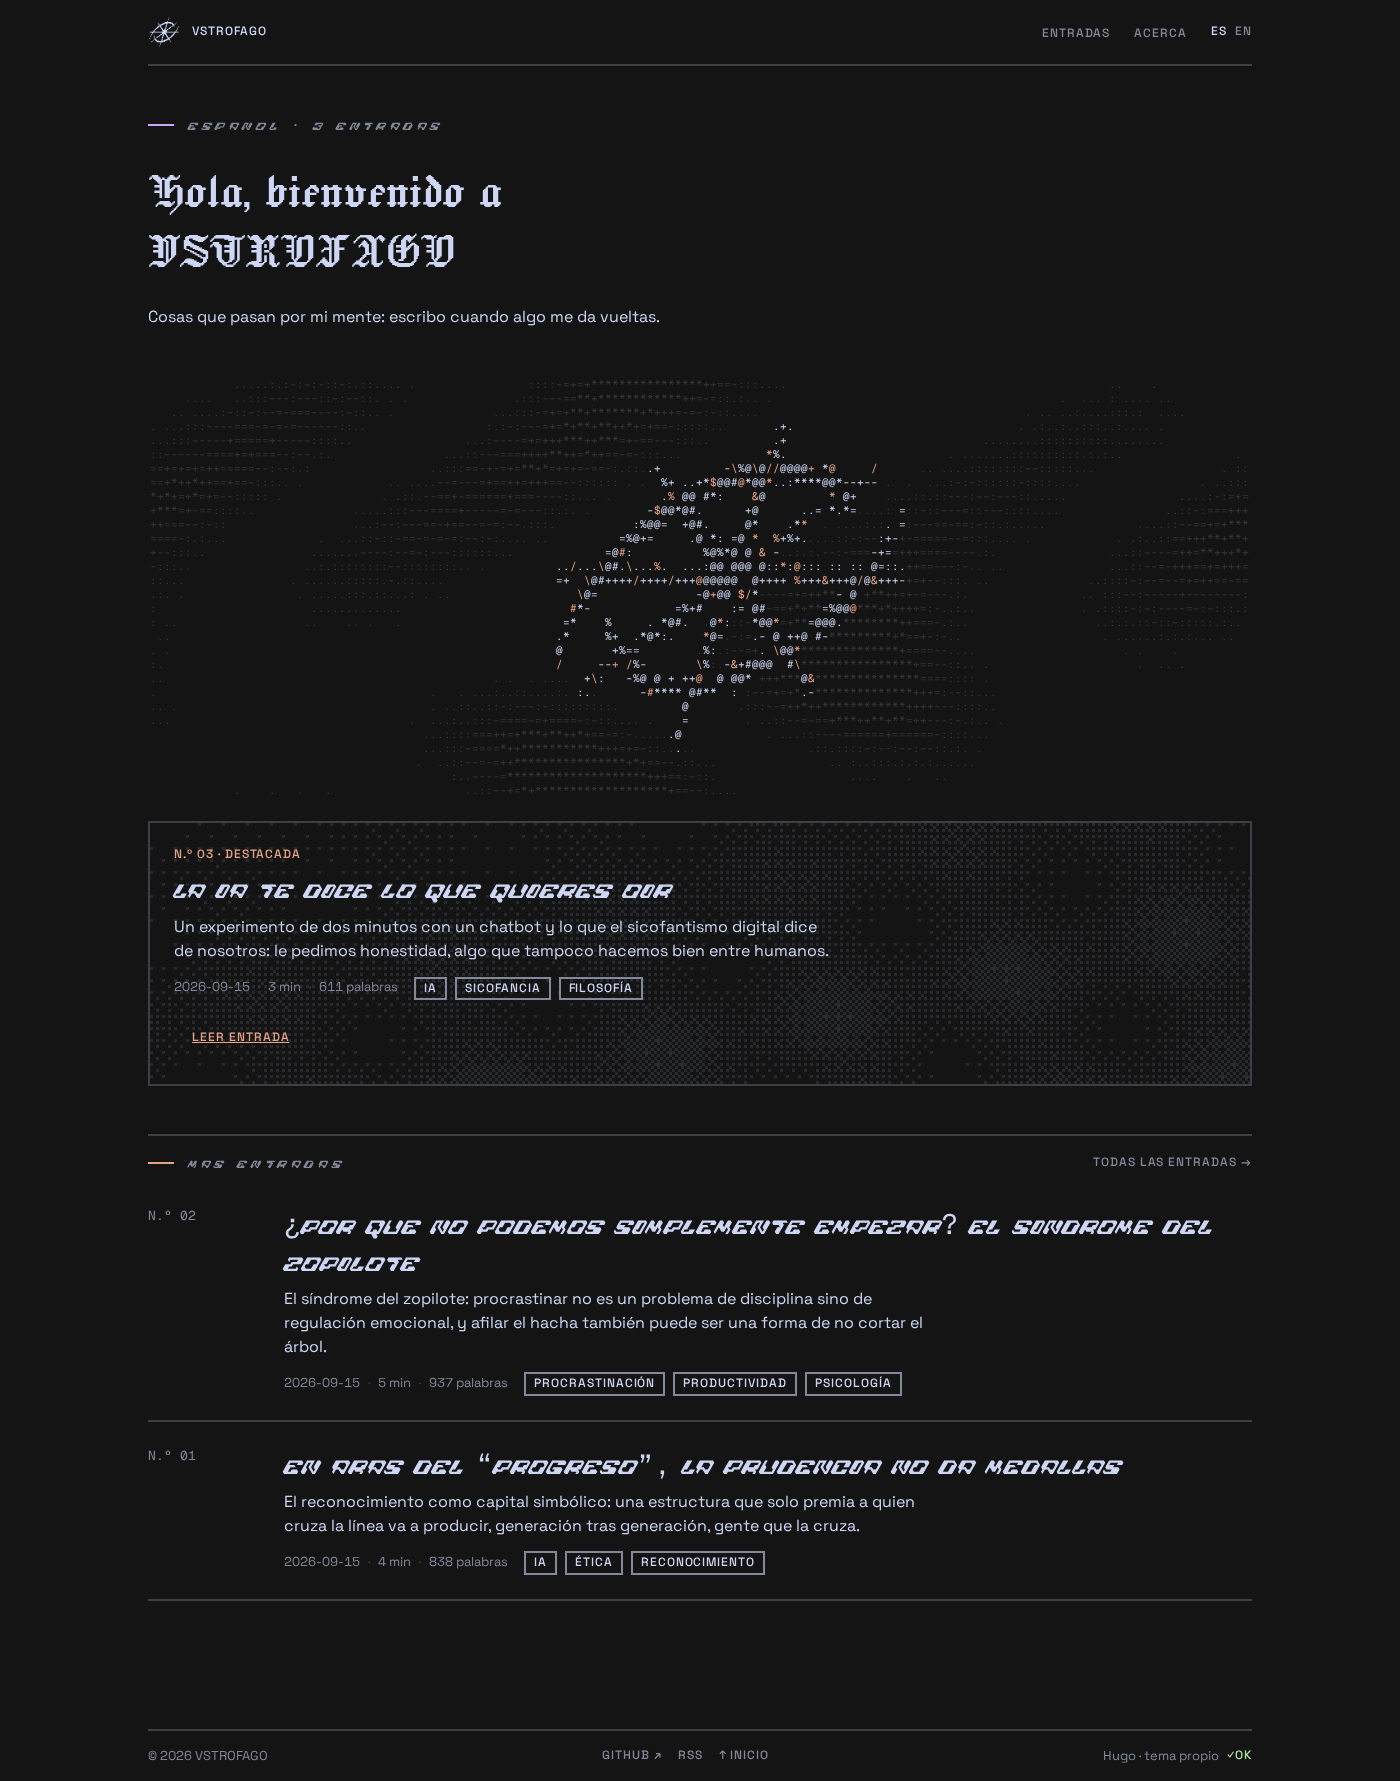
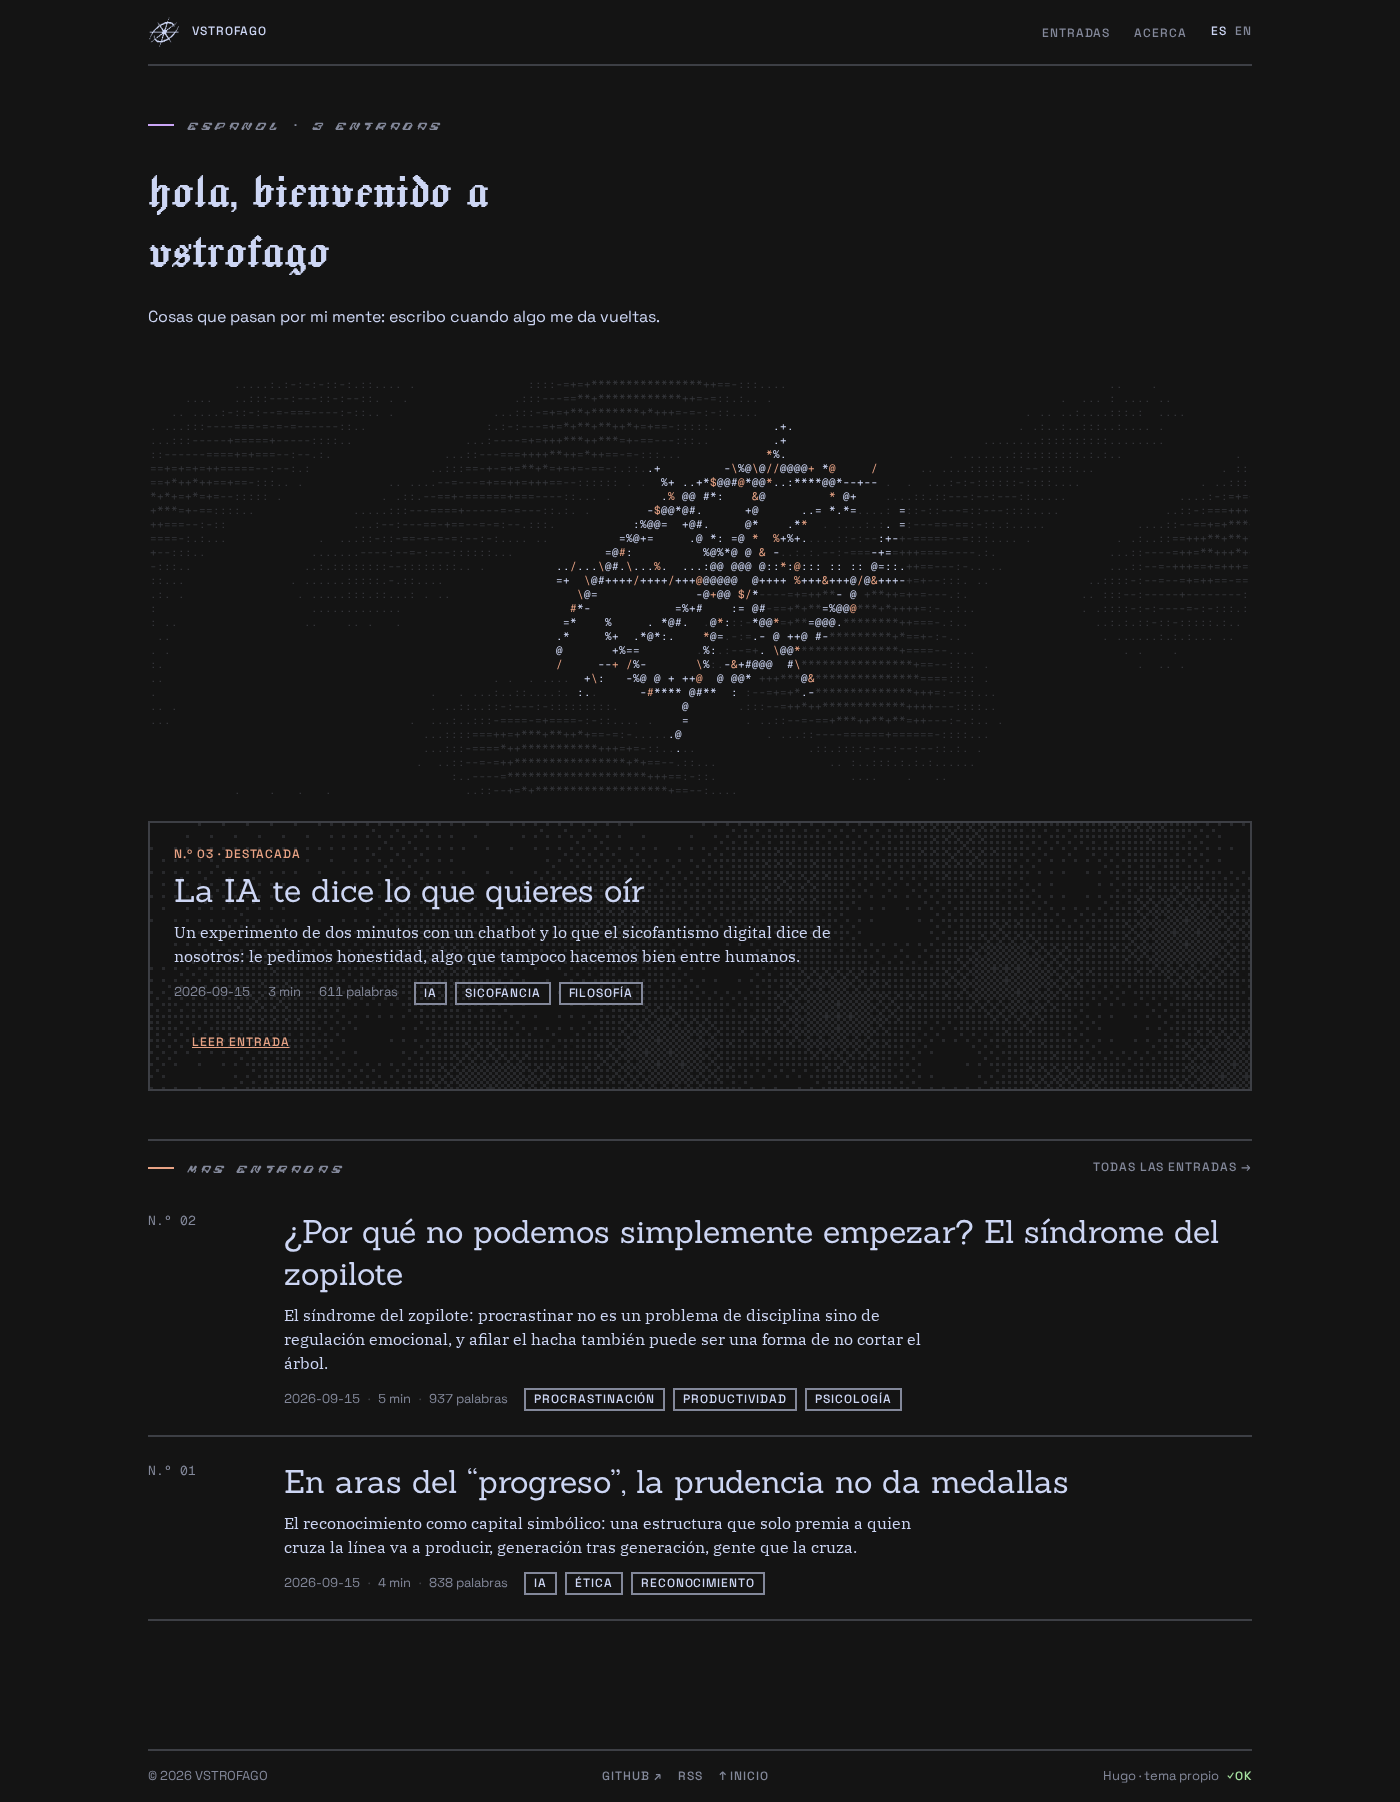
fix(theme): tipografía del blog — Sanchez + IBM Plex Serif; Jacquard solo en heroes
Corrección sobre el render revisado: el blog se compone con su par
(Sanchez para títulos y encabezados, IBM Plex Serif para todo su texto) y
Jacquard24 queda SOLO para los heroes —H1 de portada, listas, búsqueda y
404— siempre en minúsculas.

Concretamente: título de entrada y cabeceras h2-h4 en Sanchez (variantes
`bl-article-head__title--slab` y `bl-note-title`/`bl-card__title--slab` del
DS), deck, resúmenes y cuerpo en IBM Plex Serif, títulos del índice, la
destacada y prev/next en Sanchez. Es el par de la rev. 1 del diseño
(«títulos de entrada en slab», «entradilla en IBM Plex Serif»), que la
rev. 2 había cambiado por `gothic`.

El verificador cubre el contrato nuevo (63/63): heroes en minúsculas,
título y deck de entrada en el par del blog, h2 en Sanchez, y la
comprobación de markup tolera ahora los modificadores tipográficos del DS
(`--slab`, `--tech`, `--gothic`) al comparar contra el dump.

diff --git a/themes/brutalistoic/assets/css/bl-site.css b/themes/brutalistoic/assets/css/bl-site.css
@@ -20,6 +20,16 @@ img { max-width: 100%; height: auto; }
 }
 .vf-skip:focus-visible { left: var(--space-2); }
 
+/* ---------- tipografía del blog ----------
+   El blog se compone con el par del blog: títulos y encabezados en Sanchez y
+   texto en IBM Plex Serif. Jacquard24 queda SOLO para los heroes (título H1 de
+   portada, de listas y de 404) y siempre en minúsculas. */
+.vf-hero__title, .vf-list-head__title, .vf-404__title { text-transform: lowercase; }
+.bl-prose h2, .bl-prose h3, .bl-prose h4 { font-family: var(--font-sanchez); font-weight: 400; color: var(--fgplus); }
+.bl-prose h2 { font-size: 28px; line-height: 1.25; margin: var(--space-6) 0 var(--space-3); }
+.bl-prose h3 { font-size: 22px; line-height: 1.3; margin: var(--space-5) 0 var(--space-2); }
+.bl-prose h4 { font-size: 18px; line-height: 1.35; margin: var(--space-4) 0 var(--space-2); }
+
 /* ---------- chrome superior ---------- */
 .vf-header { border-bottom: var(--bw-1) solid var(--bl-line); }
 .vf-header__inner {
@@ -90,7 +100,7 @@ img { max-width: 100%; height: auto; }
 .vf-entry__title { margin: 0 0 var(--space-2); }
 .vf-entry__title a { color: var(--fgplus); text-decoration: none; }
 .vf-entry__title a:hover { color: var(--og); }
-.vf-entry__summary { margin: 0 0 var(--space-3); max-width: 66ch; font: var(--text-body); color: var(--fg); }
+.vf-entry__summary { margin: 0 0 var(--space-3); max-width: 66ch; font: var(--text-serif); color: var(--fg); }
 .vf-entry__foot { display: flex; align-items: center; gap: var(--space-4); flex-wrap: wrap; }
 .vf-meta { display: inline-flex; gap: var(--space-2); align-items: baseline; font-variant-numeric: tabular-nums; }
 .vf-meta__sep { color: var(--bl-line); }
@@ -108,7 +118,7 @@ img { max-width: 100%; height: auto; }
 /* ---------- entrada ---------- */
 .vf-article { display: block; }
 .bl-article-head { margin-bottom: var(--space-6); }
-.bl-article-head__deck { font-family: var(--font-techno-vibe-font); }
+.bl-article-head__deck { font-family: var(--font-ibmplex-serif); }
 .vf-post-foot { margin-top: var(--space-7); }
 .vf-post-foot__label { color: var(--bl-muted); margin: var(--space-5) 0 var(--space-2); }
 .vf-post-nav {
@@ -119,7 +129,7 @@ img { max-width: 100%; height: auto; }
 .vf-post-nav__item { display: block; text-decoration: none; color: var(--fg); }
 .vf-post-nav__item--next { text-align: right; }
 .vf-post-nav__item .bl-label { color: var(--bl-muted); display: block; margin-bottom: var(--space-2); }
-.vf-post-nav__title { display: block; font-size: 20px; color: var(--fgplus); }
+.vf-post-nav__title { display: block; font-family: var(--font-sanchez); font-size: 20px; line-height: 1.3; color: var(--fgplus); }
 .vf-post-nav__item:hover .vf-post-nav__title { color: var(--og); }
 
 /* ---------- migas, índice de contenido, paginador ---------- */

diff --git a/themes/brutalistoic/layouts/single.html b/themes/brutalistoic/layouts/single.html
@@ -2,13 +2,15 @@
 <article class="vf-article">
   {{ partial "breadcrumbs.html" . }}
 
-  {{- /* ArticleHeader del DS: kicker, H1 Jacquard24, deck Techno Vibe, meta en
-         caption, sobre dither Bayer estático y de baja opacidad. */}}
+  {{- /* ArticleHeader del DS: kicker, título, deck y meta en caption, sobre dither
+         Bayer estático y de baja opacidad. El blog se compone en el par del blog:
+         títulos en Sanchez (variante `--slab` del componente) y texto en IBM Plex
+         Serif. Jacquard24 queda para los heroes, siempre en minúsculas. */}}
   <header class="bl-article-head">
     <canvas class="bl-bayer" aria-hidden="true"></canvas>
     <div class="bl-article-head__inner">
       <p class="bl-label bl-article-head__kicker">{{ with .Section }}{{ . | upper }}{{ else }}{{ i18n "index" | upper }}{{ end }}</p>
-      <h1 class="bl-article-head__title">{{ .Title }}</h1>
+      <h1 class="bl-article-head__title bl-article-head__title--slab">{{ .Title }}</h1>
       {{- $deck := "" -}}
       {{- with .Params.deck }}{{ $deck = . }}{{ else }}{{ with .Summary }}{{ $deck = . | plainify }}{{ end }}{{ end -}}
       {{- with $deck }}

diff --git a/themes/brutalistoic/layouts/_partials/entry-row.html b/themes/brutalistoic/layouts/_partials/entry-row.html
@@ -1,11 +1,12 @@
-{{- /* Fila del índice: número de entrada (mono), título (tech-subtitle), resumen,
-       meta en caption y temas como Badge. Regla inferior en --bl-line. */ -}}
+{{- /* Fila del índice: número de entrada (mono), título en Sanchez (slab, tipografía
+       del blog), resumen en IBM Plex Serif, meta en caption y temas como Badge.
+       Regla inferior en --bl-line. */ -}}
 {{- $page := .page -}}
 {{- $num := .num | default "" -}}
 <li class="vf-entry">
   <div class="vf-entry__num mono">{{ $num }}</div>
   <div class="vf-entry__body">
-    <h3 class="bl-subtitle vf-entry__title">
+    <h3 class="bl-note-title vf-entry__title">
       <a href="{{ $page.RelPermalink }}">{{ $page.Title }}</a>
     </h3>
     {{- with $page.Summary }}

diff --git a/themes/brutalistoic/layouts/_partials/entry-featured.html b/themes/brutalistoic/layouts/_partials/entry-featured.html
@@ -6,7 +6,7 @@
   <canvas class="bl-bayer" aria-hidden="true"></canvas>
   <div class="bl-card__body">
     <p class="bl-label bl-card__kicker">{{ $num }} · {{ i18n "featured" }}</p>
-    <h3 class="bl-card__title bl-card__title--tech">
+    <h3 class="bl-card__title bl-card__title--slab">
       <a href="{{ $page.RelPermalink }}">{{ $page.Title }}</a>
     </h3>
     {{- with $page.Summary }}

diff --git a/docs/superpowers/specs/2026-09-21-brutalistoic-hugo-theme-design.md b/docs/superpowers/specs/2026-09-21-brutalistoic-hugo-theme-design.md
@@ -159,6 +159,16 @@ commitear/escalonar sin mezclar su diff con el mío. La implementación no toca
 
 ## Desviaciones conscientes sobre el diseño
 
+- **Tipografía del blog (corrección tras revisar el render, 2026-09-22).** El par del blog
+  es **Sanchez + IBM Plex Serif**: títulos y encabezados de entrada (y los mismos títulos
+  en el índice, la destacada y prev/next) en **Sanchez**, y todo su texto (cuerpo,
+  resúmenes, deck) en **IBM Plex Serif**. **Jacquard24 queda SOLO para los heroes** —H1 de
+  portada, de listas/etiquetas/búsqueda y de 404— y **siempre en minúsculas**. Corrige la
+  tabla de D3 (que ponía `gothic` en el título de entrada y Techno Vibe en deck y
+  subtítulos) y devuelve al blog el par de la rev. 1 («títulos de entrada en `slab`
+  (Sanchez)», «entradilla en IBM Plex Serif»). Uso de las variantes del propio DS:
+  `bl-article-head__title--slab`, `bl-card__title--slab`, `bl-note-title`.
+
 - **D2 / D9 en tensión sobre las fuentes.** La copia del DS se vendoriza *verbatim* (los
   15 binarios) porque `verify-vendor.mjs` exige 15 archivos y 15 `@font-face` resolviendo;
   el tema solo *usa* cinco caras. Las otras diez no se descargan nunca en el navegador.
